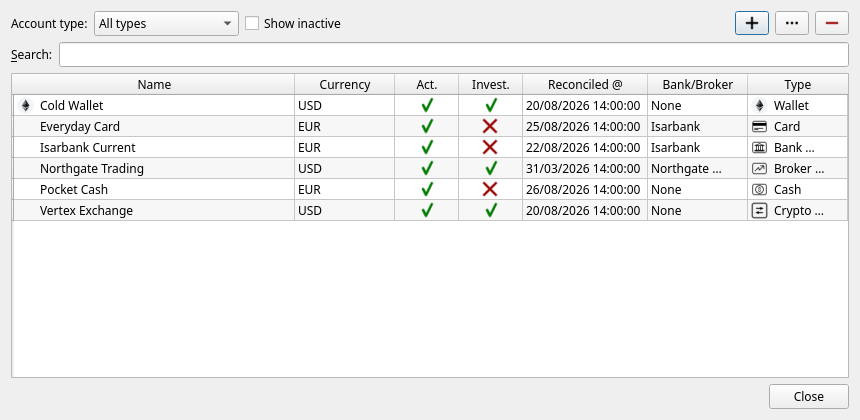
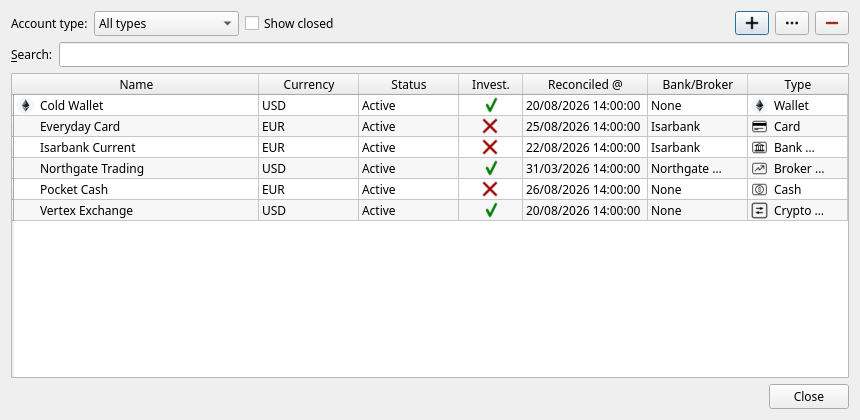
Documentation update.

diff --git a/docs/manual/09-importing.md b/docs/manual/09-importing.md
@@ -20,6 +20,7 @@ blockchain can hand you the data, JAL will read it.
 | **Just2Trade** | `.xlsx` |
 | **KIT Finance** | `.xlsx` |
 | **PSB Broker** | `.xlsx` or `.xls` |
+| **Revolut** (bank) | account statement, `.csv` |
 | **Trading 212** | *History* export, `.csv` |
 | **Tvoy Broker** | `.zip` |
 | **VTB Investments** | `.xlsx` |
@@ -50,6 +51,38 @@ go through this step; they are imported straight away.
 
 One consequence to keep in mind: interest and cashback are recorded one operation per statement row,
 and JAL cannot recognise them on a second import. Import each period once.
+
+### Revolut
+
+A bank rather than a broker, and its export is the whole history of the account: card purchases,
+ATM withdrawals, fees, refunds, cashback, the interest of the savings pocket and the money you moved
+between the two. Ask the Revolut app for a statement in **CSV** — one file covers every pocket, and
+both ends of a move between them are in it.
+
+**The file names no account either**, so — as for Trading 212 — you say once which of your accounts
+it is about, in **Settings → Preferences → Import**: *Revolut current account* and *Revolut savings
+account*. Only the ones the file actually holds are demanded, so an export with no savings rows needs
+no savings account. The import stops if a named account is missing or is in another currency than the
+statement, and a file must be in exactly one currency.
+
+**Purchases go through the same review step** as Trading 212's: one row per purchase, refund, ATM
+withdrawal, fee and cashback, already-matched ones unticked, the rest waiting for a peer and a
+category.
+
+What is imported without asking: money moved between the current account and the savings pocket
+(as one transfer, both of its ends being in the file) and the interest of the pocket — the gross Revolut
+credited, with the tax it withheld beside it as a line of its own.
+
+**What JAL will not import** is a movement the file doesn't place: a top-up, a payment to a person,
+a transfer to a pocket other than the savings account you named. The file states the amount and
+nothing about where the money came from or went, and JAL will not invent the other end — such rows are
+counted and reported at the end of the import, and stay yours to type in.
+
+Importing an overlapping period is safer here than with Trading 212: purchases are matched against
+what is already stored, and an interest payment is recognised by its day, so it is not booked twice.
+
+> Revolut writes the export in the language its app is set to. English and Portuguese are recognised;
+> a file in another language stops the import, naming the word it did not know.
 
 ### What an import actually does
 

diff --git a/docs/manual/13-troubleshooting.md b/docs/manual/13-troubleshooting.md
@@ -38,6 +38,23 @@ agree, the account stays unreconciled.
 Not a problem: you imported something that was already there, and JAL declined to duplicate it. Usual
 when statements overlap.
 
+### “No account is set for … import — choose one in Settings, Preferences, Import”
+
+A Trading 212 or Revolut export names no account, so JAL has to be told which of yours it is about.
+
+**Fix:** **Settings → Preferences → Import** and pick the account — see
+[chapter 9](09-importing.md#broker-statements). The account has to be in the same currency as the
+statement, or the import stops saying so.
+
+### “Statement balance doesn't match its own operations”
+
+A Revolut export states a running balance on every row, and JAL checks each step against the amount
+and the fee of that row. When they disagree the file is not what JAL takes it for, so nothing is
+imported.
+
+**Fix:** export the period again, unedited. If a fresh export fails the same way, report it — see
+[*Reporting a problem*](#reporting-a-problem) below.
+
 ### “Results value of corporate action doesn't match 100 % of initial asset value. Date: …”
 
 A split, merger or spin-off does not say where all of the original cost went. JAL cannot continue the
@@ -89,8 +106,9 @@ quotes.
 **Totals are in the wrong currency.** The reporting currency comes from *Data → Residence*
 ([chapter 3](03-first-steps.md)).
 
-**An account has disappeared.** It is probably inactive. Tick **Show inactive** in the balances
-right-click menu, or in *Data → Accounts*.
+**An account has disappeared.** It is probably closed, or set to *background*. Widen **Show accounts**
+in the balances right-click menu — a background account is folded into the *Background* group at the
+bottom of the panel — or tick **Show closed** in *Data → Accounts*.
 
 ## Frequently asked questions
 

diff --git a/docs/manual/03-first-steps.md b/docs/manual/03-first-steps.md
@@ -49,10 +49,10 @@ Fill it in:
 | **Name** | Whatever you will recognise: *Everyday Card*, *Main Bank*, *Cash in wallet*. |
 | **Currency** | The one currency this account holds. |
 | **Type** | *Cash*, *Bank account*, *Card*, *Broker account*, *Wallet* (crypto) or *Crypto exchange*. Used for grouping and for offering you the right things later. |
-| **Bank/Broker** | The institution. Leave it as *None* for cash. You can type a new name into the box. |
-| **Active** | Leave ticked. Untick it when an account is closed, to hide it without deleting its history. |
+| **Bank/Broker** | The institution. Leave it as *None* for cash. Type into the box to search, or press **…** to pick from the list — where a new institution can be added. |
+| **Status** | *Active* for an account you use day to day. *Background* keeps the account fully in the books but folds it away into one summary row. *Closed* is for an account that no longer exists — see [*Accounts you no longer use*](05-everyday-money.md#accounts-you-no-longer-use). |
 | **Investing** | Tick it **only** for accounts that can hold shares, funds, bonds or crypto. |
-| **Account details** | Extra facts, added with the **+** button next to the table: *Account #*, *Credit* (a card's credit limit), *Country*, *Precision* (how many decimals the account counts in — 2 for money), *Tag* (see [*Tags*](05-everyday-money.md#tags)). |
+| **Account details** | Extra facts, added with the **+** button next to the table: *Account #*, *Credit* (a card's credit limit), *Country*, *Precision* (how many decimals the account counts in — 2 for money), *Tag* (see [*Tags*](05-everyday-money.md#tags)), *Opened on* and *Closed on* (the dates, for your own record). |
 
 Click **OK**. Repeat for every account you have, then **Close**.
 

diff --git a/docs/manual/10-reports.md b/docs/manual/10-reports.md
@@ -57,8 +57,11 @@ What you own, on a chosen date:
 | **Value, …** | The same, converted into the common currency |
 
 **Group by** rearranges everything — by currency and account, by asset, by country, by the tag on
-the asset, or by the tag on the account it is held in.
-**Show Inactive accounts** brings closed accounts back into the picture.
+the asset, by the tag on the account it is held in, or by the
+[status](03-first-steps.md#step-2--create-your-accounts) of that account.
+**Accounts** says how deep the report reaches: *Active accounts only*, *With background accounts*
+(the default) or *With closed accounts*. Grouped by status, the background positions come as one
+folded group with its own total — open it to see what is inside.
 
 Right-click a position for its [price chart](06-investments.md#looking-at-prices), a
 [tax estimate](06-investments.md#what-a-sale-would-cost-in-tax), or to give the asset a tag.
@@ -108,13 +111,16 @@ the account earned in payments over the period, and what was withheld from it.
 
 ## Deposits
 
-Term deposits — described in full in [chapter 7](07-deposits.md).
+Term deposits — described in full in [chapter 7](07-deposits.md). Right-click a deposit to rename it
+or to give it a picture.
 
 ![The deposits report](img/report_deposits.png)
 
 ## Staked positions
 
-What you have staked, where, what it is worth, and what it has accrued but not yet paid out. See
+What you have staked, where, what it is worth, and what it has accrued but not yet paid out —
+including the [rewards that wait at a distributor](08-crypto.md#rewards-waiting-to-be-claimed) until
+you claim them. Right-click a position to rename it or to chart what it has accrued. See
 [chapter 8](08-crypto.md#staking).
 
 ## Unsettled transfers

diff --git a/docs/manual/04-main-window.md b/docs/manual/04-main-window.md
@@ -54,6 +54,17 @@ In the picture above, the trading account is red because it was last checked in 
 A small **coin icon** beside a balance means the figure includes a credit limit — the card above
 holds −354.44 of its own but has 1,500 of credit, so 1,145.56 is what could still be spent.
 
+### Background accounts
+
+An account whose [status](03-first-steps.md#step-2--create-your-accounts) is *Background* keeps every
+figure it has, but it is not given a row of its own among the account types. All of them gather under
+one **Background** group at the bottom of the panel, which opens folded: what you see is a single
+total. Open it and the account types are inside, exactly as above. A group you open by hand stays
+open while JAL runs.
+
+Use it for what holds real money but needs no daily attention — an old savings account, a wallet you
+top up once a year — so the accounts you actually work with are the ones you see.
+
 ### The pictures beside the names
 
 An account row wears the picture of the account itself; a crypto wallet that has none wears the logo
@@ -68,7 +79,8 @@ a tag with no picture marks nothing.
 
 ![The balances context menu](img/balances_context_menu.png)
 
-* **Show inactive** — also list accounts you have switched off.
+* **Show accounts** — how deep the panel reaches: *Active accounts only*, *With background accounts*
+  or *With closed accounts*. Each choice includes the ones above it.
 * **Use credit limits** — whether card limits are added to balances, as described above.
 * **Group by tag** — put the accounts that share a tag next to each other inside their type group,
   so their marks run down the column together. Untagged accounts gather at the top.

diff --git a/docs/manual/12-settings-and-maintenance.md b/docs/manual/12-settings-and-maintenance.md
@@ -6,7 +6,7 @@
 
 ![The Settings menu](img/menu_settings.png)
 
-**Settings → Preferences** — a small dialog with two pages:
+**Settings → Preferences** — a small dialog with three pages:
 
 ![Preferences](img/dlg_preferences.png)
 
@@ -22,6 +22,13 @@
 
 API keys for the blockchain explorers, and the dust threshold — all explained in
 [chapter 8](08-crypto.md#api-keys).
+
+### Import
+
+Which of your accounts a statement belongs to, for the exports that name no account themselves:
+*Trading 212 account*, *Revolut current account* and *Revolut savings account*. Press **…** beside a
+row to pick the account. Those imports refuse to run until the account they need is set —
+see [chapter 9](09-importing.md#broker-statements).
 
 Changes take effect when you press **OK**; **Cancel** discards them.
 
@@ -69,6 +76,8 @@ impossible.
 * **Since Last actual** — from where JAL stopped last time. This is the default and is what happens
   automatically after every edit.
 * **Since Date** — from a date you choose. Use it when you know when the trouble starts.
+
+JAL remembers which of the three you chose last and offers it again next time.
 
 Rebuilding never changes your operations: it only recomputes what is derived from them. If a figure
 is still wrong afterwards, the operations themselves are wrong.

diff --git a/docs/manual/08-crypto.md b/docs/manual/08-crypto.md
@@ -153,6 +153,22 @@ venues whose balances JAL can read on chain — how much the position has **accr
 out. Rewards that *were* paid out arrive in your wallet and are recorded there as an *Asset Payment*
 of type **Staking reward**.
 
+A position is named when it is created, from whatever the import recognised, and that guess is
+usually worth correcting: right-click the row and choose **Rename position…** to give it a name of
+your own and a picture.
+
+### Rewards waiting to be claimed
+
+Some rewards are not paid into the wallet at all until you claim them — a
+[Merkl](https://merkl.xyz/) campaign, or the rewards of Aave's Safety Module. They are earned money
+that has not arrived, so JAL lists them in the same report, one row per wallet, asset and
+distributor, with the amount in the **Accrued** column and no position behind it.
+
+They are read from the chain together with the balances, by **Import → Download quotes…** with the
+chains ticked. Right-click such a row for **Show claim history** — how the owed amount has grown
+since JAL started watching it. Nothing is booked: when you finally claim, the coins arrive in the
+wallet and are recorded as the payment they are.
+
 ## Crypto prices
 
 Crypto prices come from DeFiLlama and need no key. They are downloaded with everything else through

diff --git a/docs/manual/05-everyday-money.md b/docs/manual/05-everyday-money.md
@@ -150,8 +150,13 @@ Do not delete a closed account — its history is part of your past. Open **Data
 
 ![The account list](img/dlg_accounts.png)
 
-select the account, press **…** to open it, and untick **Active**. It disappears from the balances panel and from the pickers, while every
-operation it holds stays in the reports. Tick **Show inactive** to see such accounts again.
+select the account, press **…** to open it, and set its **Status** to *Closed*. It disappears from the balances panel and from the pickers, while every
+operation it holds stays in the reports. Tick **Show closed** to see such accounts again here, and use **Show accounts** in the
+[balances right-click menu](04-main-window.md#right-click-on-the-panel) to bring them back into the panel.
+
+An account you still hold but no longer watch does not have to be closed: give it the status
+*Background* instead and it keeps counting in full, folded away into
+[one group](04-main-window.md#background-accounts) at the bottom of the panel.
 
 ---
 

diff --git a/docs/manual/07-deposits.md b/docs/manual/07-deposits.md
@@ -28,7 +28,7 @@ The five buttons along the top are the five things a deposit can do.
 
 | Field | Meaning |
 |---|---|
-| **Name** | What you will call it. Must not clash with an existing account. |
+| **Name** | What you will call it. Must not clash with an existing account. Right-click the deposit in the list afterwards and choose **Rename deposit…** to change it, or to give it a picture. |
 | **Funded from** | The account the money comes out of. The deposit takes that account's currency. |
 | **Bank** | The peer that holds it. Left empty, the funding account's bank is used. |
 | **Amount** | How much goes in. |

diff --git a/docs/README.md b/docs/README.md
@@ -35,6 +35,7 @@ JAL is tailored for those who want a clear insight into their personal incomes, 
 ### Broker Statement Imports
 - Supports various Russian and international brokers.
 - Supports centralized crypto exchange statements (KuCoin, Bitget).
+- Supports bank and card statements (Revolut), where card purchases are reviewed against what is already recorded before anything is imported.
 ### Tax Reports
 - Assistance for tax declaration in Russia and Portugal.
 - Tax burden estimation for a given asset in the portfolio.
